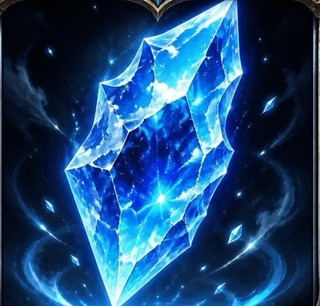
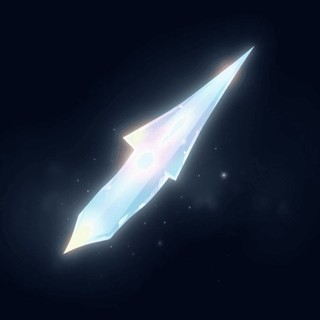
Обновить фото Небесного Осколка и добавить таймер частички
Заменена иконка на карточке покупки Осколка на присланное фото
(кристалл на звёздном фоне). Напротив иконки добавлен живой таймер
«Частичка через» — обратный отсчёт до ближайшей следующей частички
среди всех купленных игроком осколков (минимум по всем майнерам,
независимо от того, сколько уже накопилось и ждёт сбора). Не завязан
на сигнатуру покупки осколка — тикает каждую секунду сам по себе,
пока во вкладке «Гнездо» открыта.

diff --git a/index.html b/index.html
@@ -778,6 +778,9 @@
         @keyframes nestShardGlow { 0%, 100% { filter: brightness(1); } 50% { filter: brightness(1.18); } }
         .nest-shard-title { font-weight: 800; font-size: 15px; }
         .nest-shard-sub { color: var(--text-muted); font-size: 12px; margin-top: 2px; }
+        .nest-particle-timer { margin-left: auto; flex: none; text-align: right; }
+        .nest-particle-timer-label { font-size: 9.5px; color: var(--text-muted); text-transform: uppercase; letter-spacing: 0.06em; white-space: nowrap; }
+        .nest-particle-timer-val { font-variant-numeric: tabular-nums; font-weight: 800; font-size: 13.5px; color: var(--accent-violet); margin-top: 2px; }
         .nest-shard-daily { margin-top: 10px; font-size: 11px; font-weight: 700; color: var(--text-muted); text-align: center; }
         .nest-countdown-wrap { margin-top: 12px; display: flex; flex-direction: column; gap: 4px; }
         .nest-countdown-label { font-size: 10.5px; color: var(--text-muted); text-transform: uppercase; letter-spacing: 0.08em; }
@@ -1451,6 +1454,7 @@
                 'nest.shardCooldownLabel': 'Следующий осколок через',
                 'nest.shardPurchased': 'Небесный Осколок куплен — отправлен в Кузницу',
                 'nest.shardBoughtToday': 'Сегодня куплено: {count} / {limit} (лимит один на всех игроков)',
+                'nest.nextParticleLabel': 'Частичка через',
                 'nest.shardDailyLimitReached': 'Суточный лимит осколков исчерпан — приходи завтра',
                 'nest.minersInWork': 'Осколков в работе', 'nest.noMiners': 'нет осколков',
                 'nest.readyToCollect': 'Готово к сбору', 'nest.collectBtn': 'Собрать частички',
@@ -1634,6 +1638,7 @@
                 'nest.shardCooldownLabel': 'Next shard in',
                 'nest.shardPurchased': 'Sky Shard purchased — sent to the Forge',
                 'nest.shardBoughtToday': 'Bought today: {count} / {limit} (shared limit for all players)',
+                'nest.nextParticleLabel': 'Next particle in',
                 'nest.shardDailyLimitReached': "Today's shard limit is reached — come back tomorrow",
                 'nest.minersInWork': 'Shards at work', 'nest.noMiners': 'no shards',
                 'nest.readyToCollect': 'Ready to collect', 'nest.collectBtn': 'Collect particles',
@@ -4845,6 +4850,18 @@
             return state.nest.miners.reduce((sum, m) => sum + nestMinerPending(m, nowSec), 0);
         }
 
+        // Сколько секунд осталось до ближайшей следующей частички среди всех
+        // осколков игрока (независимо от того, сколько уже накопилось и
+        // ждёт сбора) — null, если осколков ещё нет вовсе.
+        function nestNextParticleSeconds(nowSec) {
+            const interval = (CONFIG.nest.particle_interval_hours || 24) * 3600;
+            if (!state.nest.miners.length || interval <= 0) return null;
+            return Math.min(...state.nest.miners.map(m => {
+                const elapsed = (nowSec - (m.lastCollectAt || 0)) % interval;
+                return interval - elapsed;
+            }));
+        }
+
         function renderNest() {
             renderNestShard();
             renderNestForge();
@@ -4877,6 +4894,14 @@
             const el = document.getElementById('nestShardCard');
             if (!el) return;
             const now = Date.now() / 1000;
+            // Таймер до следующей частички не завязан на сигнатуру покупки
+            // осколка (та ловит только куплен/лимит/кулдаун) — тикает всегда,
+            // пока есть хоть один осколок.
+            const timerValEl = document.getElementById('nestParticleTimerVal');
+            if (timerValEl) {
+                const nextParticle = nestNextParticleSeconds(now);
+                timerValEl.textContent = nextParticle == null ? '—' : formatCountdown(nextParticle);
+            }
             if (nestShardSignature(now) !== nestShardSig) { renderNestShard(); return; }
             const limitReached = (state.nest.shardBoughtToday || 0) >= (state.nest.shardDailyLimit || 4);
             const ready = now >= (state.nest.shardCooldownUntil || 0);
@@ -4899,12 +4924,17 @@
             const limit = state.nest.shardDailyLimit || 4;
             const boughtToday = state.nest.shardBoughtToday || 0;
             const limitReached = boughtToday >= limit;
+            const nextParticle = nestNextParticleSeconds(now);
             const header = `
                 <div class="nest-shard-top">
                     <div class="nest-shard-icon"><img src="assets/nest-shard.jpg" alt=""></div>
                     <div>
                         <div class="nest-shard-title">${t('nest.shardTitle')}</div>
                         <div class="nest-shard-sub">${t('nest.shardSub', { price: fmtGram(price) })}</div>
+                    </div>
+                    <div class="nest-particle-timer">
+                        <div class="nest-particle-timer-label">${t('nest.nextParticleLabel')}</div>
+                        <div class="nest-particle-timer-val" id="nestParticleTimerVal">${nextParticle == null ? '—' : formatCountdown(nextParticle)}</div>
                     </div>
                 </div>
                 <div class="nest-shard-daily">${t('nest.shardBoughtToday', { count: boughtToday, limit })}</div>`;
